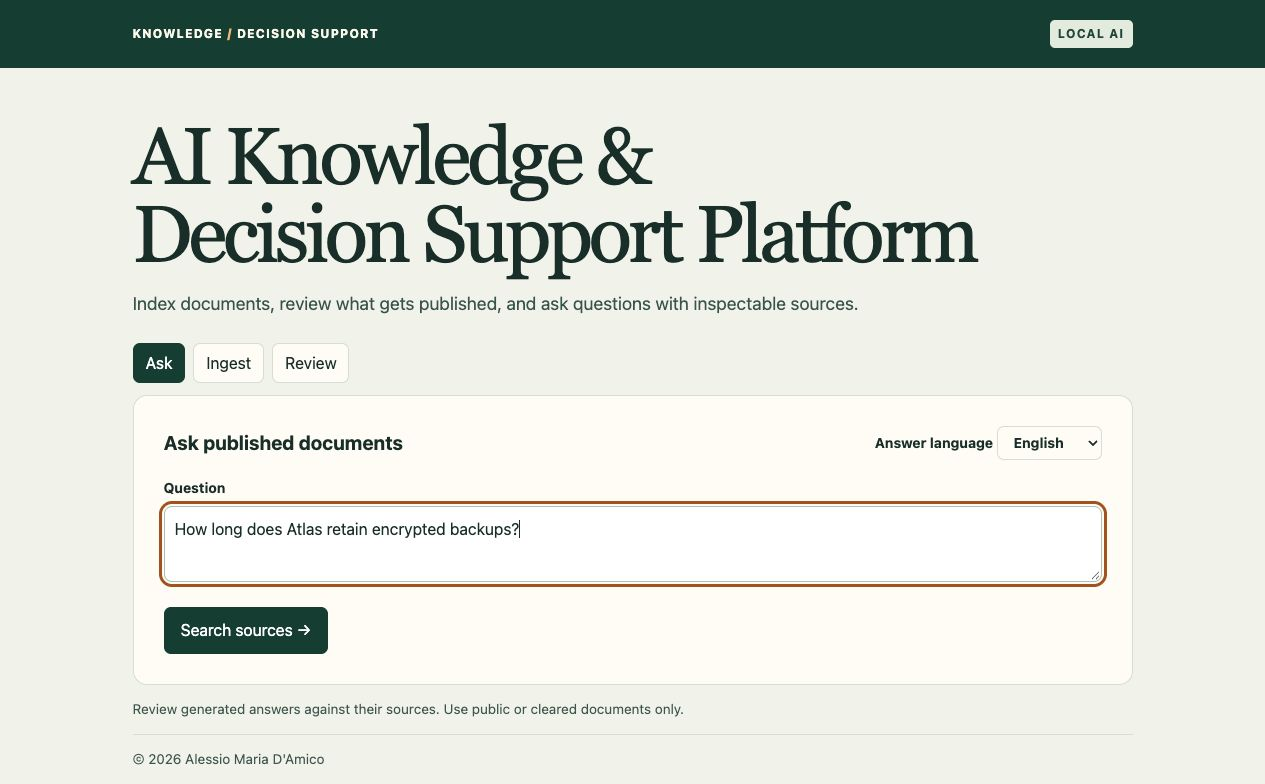
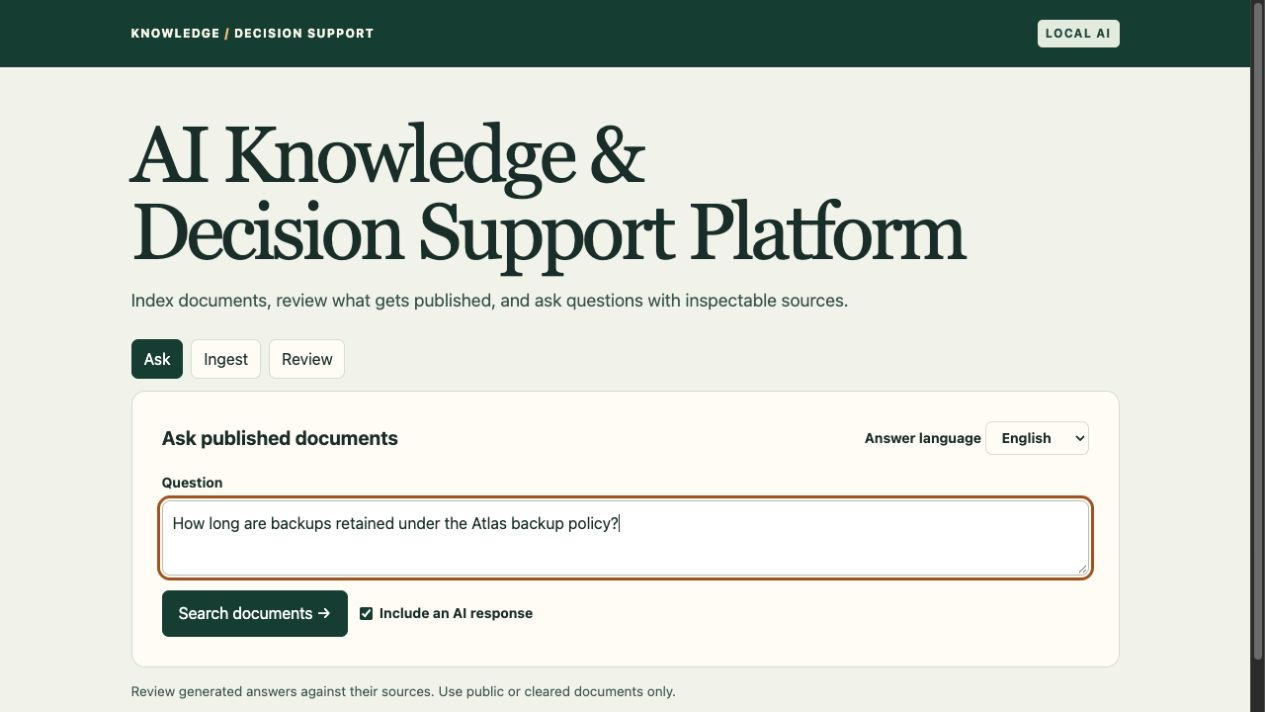
Unify document search and improve AI response presentation

Changed region(s): [[0.0925, 0.1545, 0.8941, 0.927], [0.0, 0.0, 1.0, 1.0], [0.0925, 0.9579, 0.5241, 0.9888]]

diff --git a/web/main.jsx b/web/main.jsx
@@ -20,6 +20,7 @@ function App() {
   const [question, setQuestion] = useState('');
   const [result, setResult] = useState(null);
   const [matches, setMatches] = useState(null);
+  const [includeDraft, setIncludeDraft] = useState(true);
   const [library, setLibrary] = useState([]);
   const [selected, setSelected] = useState(null);
   const [busy, setBusy] = useState(false);
@@ -46,37 +47,38 @@ function App() {
         {tab === 'ask' && <>
           <div className="panel-head"><h2>Ask published documents</h2><label>Answer language <select value={locale}
             disabled={busy} onChange={e => {setLocale(e.target.value);setResult(null);}}>{languageOptions}</select></label></div>
-          <form onSubmit={e => {e.preventDefault();setResult(null);setMatches(null);run(async () => setMatches(await request('search','POST',{question,locale})));}}>
+          <form onSubmit={e => {e.preventDefault();setResult(null);setMatches(null);run(async () => {
+              const found = await request('search','POST',{question,locale});
+              setMatches(found);
+              if (includeDraft && found.sources.length) setResult(await request('ask','POST',{question,locale}));
+            });}}>
             <label htmlFor="question">Question</label>
             <textarea id="question" required minLength={4} maxLength={500} value={question} onChange={e => {setQuestion(e.target.value);setMatches(null);setResult(null);setMessage('');}} disabled={busy}/>
-            <button className="primary" disabled={busy || question.trim().length < 4}>Search sources →</button>
+            <div className="search-actions">
+              <button className="primary" disabled={busy || question.trim().length < 4}>Search documents →</button>
+              <label className="draft-option"><input type="checkbox" checked={includeDraft} disabled={busy}
+                onChange={e => setIncludeDraft(e.target.checked)}/>Include an AI response</label>
+            </div>
           </form>
+          {busy && includeDraft && matches?.sources.length > 0 && <div className="answer" role="status"><h2>Preparing AI response…</h2><p>You can read the retrieved passages below while it runs.</p></div>}
+          {result && <div className="answer" role="status">
+            <span className="tag">{result.mode === 'unverified' ? 'AI response · source references unverified' : result.mode === 'llm' ? 'AI response · review before use' : result.mode === 'evidence' ? 'Source passages only' : 'AI could not generate a response'}</span>
+            <p className="response" lang={locale}>{result.answer}</p>
+            {result.warning && <p className="draft-warning" role="note">{result.warning}</p>}
+            <p><small>Retrieval: {result.metrics.retrieval_ms} ms · Total: {result.metrics.total_ms} ms
+              {result.metrics.generation_ms != null && <> · Generation: {result.metrics.generation_ms} ms · Tokens: {result.metrics.prompt_tokens} in / {result.metrics.generated_tokens} out · {result.metrics.device}</>}
+            </small></p>
+          </div>}
           {matches && <div className="answer">
             <h2>{matches.sources.length ? 'Relevant passages' : 'No relevant passages found'}</h2>
             {matches.sources.length > 0 && <>
-              <p>Check the passages below, or ask Qwen to draft an answer.</p>
-              <button type="button" disabled={busy} onClick={() => {
-                setResult(null); run(async () => setResult(await request('ask','POST',{question,locale})));
-              }}>Generate answer</button>
               <div className="sources">{matches.sources.map(s =>
                 <article className="source" key={s.id + ':' + s.ordinal}>
-                  <span className="tag">{s.locale.toUpperCase()} · v{s.version} · {s.page ? 'p. ' + s.page : 'chunk ' + s.ordinal}</span>
+                  <span className="tag">{result?.sources.find(c => c.id === s.id && c.ordinal === s.ordinal)?.citation && <>{result.sources.find(c => c.id === s.id && c.ordinal === s.ordinal).citation} · </>}{s.locale.toUpperCase()} · v{s.version} · {s.page ? 'p. ' + s.page : 'chunk ' + s.ordinal}</span>
                   <h3>{s.title}</h3>{s.filename && <small>{s.filename}</small>}<p lang={s.locale}>{s.text}</p>
                 </article>)}</div>
             </>}
             <p><small>Search: {matches.retrieval_ms} ms</small></p>
-          </div>}
-          {result && <div className="answer" role="status">
-            <span className="tag">{result.mode === 'llm' ? 'Qwen · review before use' : result.mode === 'evidence' ? 'Source passages only' : matches ? 'No usable answer' : 'Insufficient evidence'}</span>
-            <p className="response" lang={matches && result.mode === 'insufficient' ? 'en' : locale}>
-              {matches && result.mode === 'insufficient' ? 'Relevant passages found; no usable answer generated. Check the search results above.' : result.answer}
-            </p>
-            {result.sources.length > 0 && <><h2>Cited passages</h2><div className="sources">{result.sources.map(s =>
-              <article className="source" key={s.citation}><span className="tag">{s.citation} · {s.locale.toUpperCase()} · v{s.version} · {s.page ? 'p. ' + s.page : 'chunk ' + s.ordinal}</span>
-                <h3>{s.title}</h3>{s.filename && <small>{s.filename}</small>}<p lang={s.locale}>{s.text}</p></article>)}</div></>}
-            <p><small>Retrieval: {result.metrics.retrieval_ms} ms · Total: {result.metrics.total_ms} ms
-              {result.metrics.generation_ms != null && <> · Generation: {result.metrics.generation_ms} ms · Tokens: {result.metrics.prompt_tokens} in / {result.metrics.generated_tokens} out · {result.metrics.device}</>}
-            </small></p>
           </div>}
         </>}
         {tab === 'ingest' && <><h2>Ingest a document</h2><p>Use the same slug to create a new version. Each upload starts as a draft.</p>

diff --git a/web/style.css b/web/style.css
@@ -10,3 +10,5 @@ h2,h3,p{margin-top:0}h2{font-size:1.22rem;margin-bottom:0}h3{font-size:1rem;marg
 .answer{margin-top:20px;padding-top:20px;border-top:1px solid var(--line)}.response{white-space:pre-wrap;margin:10px 0 18px}.sources{display:grid;grid-template-columns:repeat(auto-fit,minmax(min(100%,270px),1fr));gap:10px;margin-top:10px}.source{border:1px solid var(--line);border-radius:8px;padding:12px;background:#f5f7ef}.source p{margin:8px 0 0}
 aside,footer{font-size:.85rem;color:#3d564d;padding:14px 0}footer{border-top:1px solid var(--line);margin-bottom:14px}:focus-visible{outline:3px solid #a35213;outline-offset:2px}
 input{font:inherit;color:inherit;max-width:100%;padding:7px;border:1px solid var(--line);border-radius:6px;margin:5px 4px 10px}label[for=text]{display:block;margin-top:14px}[role=status]:empty{display:none}
+
+.search-actions{display:flex;flex-wrap:wrap;align-items:center;gap:12px;margin-top:15px}.search-actions .primary{margin-top:0}.draft-option{display:inline-flex;align-items:center;gap:7px}.draft-option input{margin:0;accent-color:var(--green)}

diff --git a/web/index.html b/web/index.html
@@ -2,5 +2,5 @@
 <html lang="en">
 <head><meta charset="utf-8"><meta name="viewport" content="width=device-width, initial-scale=1">
 <title>AI Knowledge &amp; Decision Support Platform</title><link rel="stylesheet" href="/app.css"></head>
-<body><div id="root"></div><script defer src="/app.js"></script></body>
+<body><div id="root"></div><script defer src="/app.js?v=ai-response-1"></script></body>
 </html>

diff --git a/hub/app.py b/hub/app.py
@@ -255,8 +255,20 @@ def ask(q: Question):
     ids = set(re.findall(r"\[(S\d+)\]", answer))
     allowed = {f"S{i}" for i in range(1, len(evidence)+1)}
     bracketed = set(re.findall(r"\[([^\[\]]+)\]", answer))
-    if not ids or bracketed != ids or not ids <= allowed or answer.startswith("INSUFFICIENT"):
-        return {"mode": "insufficient", "answer": ABSTAIN[q.locale], "sources": [], "metrics": metrics}
+    if not evidence or not answer.strip() or answer.strip().upper().startswith("INSUFFICIENT"):
+        message = {"en": "The model could not draft an answer from these passages. You can inspect them below.",
+                   "es": "El modelo no pudo redactar una respuesta con estos pasajes. Puedes consultarlos abajo.",
+                   "fr": "Le modèle n’a pas pu rédiger de réponse à partir de ces passages. Consultez-les ci-dessous."}
+        return {"mode": "insufficient", "answer": message[q.locale] if evidence else ABSTAIN[q.locale],
+                "sources": [], "metrics": metrics}
+    if not ids or bracketed != ids or not ids <= allowed:
+        # Preserve a substantive draft, but never invent or validate its citations.
+        if any(char.isalnum() for char in re.sub(r"\[[^\[\]]*\]", "", answer)):
+            return {"mode": "unverified", "model": GENERATOR, "answer": answer,
+                    "warning": "Source references could not be verified. Check this draft against the retrieved passages.",
+                    "sources": [], "metrics": metrics}
+        return {"mode": "evidence", "answer": "The model returned source labels without an explanation.",
+                "sources": [], "metrics": metrics}
     if not any(char.isalnum() for char in re.sub(r"\[S\d+\]", "", answer)):
         message = {
             "en": "Qwen returned citations without an answer. Check the passages below.",

diff --git a/tests/test_hub.py b/tests/test_hub.py
@@ -55,11 +55,23 @@ class TestHub(unittest.TestCase):
         self.assertEqual(result["sources"][0]["locale"], "en")
         self.assertEqual(answer.call_args.args[1], "es")
 
-    def test_unknown_or_missing_citations_abstain(self):
+    def test_unknown_or_missing_citations_preserve_unverified_draft(self):
         self.publish(self.create())
         for text in ("Incorrect [S8]", "Incorrect [S1] [X]", "No citation"):
             with patch.object(hub.engine, "answer", return_value=(text, {})):
-                self.assertEqual(hub.ask(hub.Question(question="backup"))["mode"], "insufficient")
+                result = hub.ask(hub.Question(question="backup"))
+                self.assertEqual(result["mode"], "unverified")
+                self.assertEqual(result["answer"], text)
+                self.assertEqual(result["sources"], [])
+                self.assertIn("could not be verified", result["warning"])
+
+    def test_explicit_abstention_and_empty_output_do_not_become_drafts(self):
+        self.publish(self.create())
+        for text in ("INSUFFICIENT", "INSUFFICIENT [S1]", ""):
+            with patch.object(hub.engine, "answer", return_value=(text, {})):
+                result = hub.ask(hub.Question(question="backup"))
+                self.assertEqual(result["mode"], "insufficient")
+                self.assertEqual(result["sources"], [])
 
     def test_citation_only_output_shows_evidence_instead_of_answer(self):
         self.publish(self.create())

diff --git a/README.md b/README.md
@@ -1,10 +1,10 @@
 # AI Knowledge & Decision Support Platform
 
-**Independent R&D Project · 2026**
+**R&D Project · 2026**
 
 Developed by Alessio Maria D'Amico
 
-A local web application for ingesting text documents, reviewing versions, and asking questions against published material. The app generates answers with Qwen and returns the exact passages behind its citations. The example corpus uses synthetic IT operations documents.
+A local web application for ingesting text documents, reviewing versions, and asking questions against published material. Search returns relevant published passages; an optional local Qwen response appears above them, with source references checked against the retrieved material. The example corpus uses synthetic IT operations documents.
 
 [Architecture and request flow](docs/ARCHITECTURE.md) · [Threat model](docs/THREAT_MODEL.md) · [Evaluation cases](evaluation/cases.json)
 
@@ -12,7 +12,9 @@ A local web application for ingesting text documents, reviewing versions, and as
 
 ### Ask
 
-![Ask interface with a synthetic question and Search sources button](docs/screenshots/ask.jpg)
+Search published documents, with **Include an AI response** enabled by default. Clear it to retrieve passages without running Qwen. Responses appear above the passages; missing or invalid source references are clearly marked as unverified.
+
+![Ask interface with a synthetic question, Search documents button and optional AI response](docs/screenshots/ask.jpg)
 
 ### Ingest
 
@@ -37,7 +39,7 @@ HUB_ALLOW_DOWNLOAD=1 python -m evaluation.run
 python -m uvicorn hub.app:app --host 127.0.0.1 --port 8769 --no-access-log
 ```
 
-The evaluation warms the Hugging Face cache and uses a temporary database. Subsequent runs default to cache-only model loading. Open **http://127.0.0.1:8769**. In **Ingest**, paste text or upload a PDF with selectable text (up to 5 MiB and 50 pages). Use **Review** to inspect its chunks and publish the version. In **Ask**, use **Search sources** to inspect ranked published passages without running Qwen. Select **Generate answer** if you want a draft answer; the search results stay visible if generation fails. API docs are at `/docs`.
+The evaluation warms the Hugging Face cache and uses a temporary database. Subsequent runs default to cache-only model loading. Open **http://127.0.0.1:8769**. In **Ingest**, paste text or upload a PDF with selectable text (up to 5 MiB and 50 pages). Use **Review** to inspect its chunks and publish the version. In **Ask**, select **Search documents**. **Include an AI response** is checked by default; clear it to search without running Qwen. The AI response appears above the retrieved passages, which remain visible if generation fails. Responses with missing or invalid citation IDs are shown as unverified responses, with a warning; their references are not presented as validated citations. API docs are at `/docs`.
 
 With Docker Compose, run `HUB_ALLOW_DOWNLOAD=1 docker compose up --build` for the first session and exercise ingestion and search to fill the model cache. The application and models run in one container; named volumes store the documents and model weights. Recreate without `HUB_ALLOW_DOWNLOAD=1` to use cached models only. Do not expose this single-user demo to other users.
 
@@ -45,7 +47,7 @@ With Docker Compose, run `HUB_ALLOW_DOWNLOAD=1 docker compose up --build` for th
 
 React → FastAPI → overlapping text chunks → multilingual E5 embeddings → exact cosine search over SQLite vectors → multilingual cross-encoder reranking → Qwen generation with Transformers and PyTorch → validated citation IDs.
 
-The UI accepts pasted plain text and text-based PDFs, tracks document versions by slug, and makes draft review explicit. English, Spanish and French are selectable response languages. A single published corpus is searched across languages. The system abstains when no passage qualifies or the answer lacks valid citation IDs. A citation establishes which passage the model referenced; it does not prove the passage supports every claim.
+The UI accepts pasted plain text and text-based PDFs, tracks document versions by slug, and makes draft review explicit. English, Spanish and French are selectable response languages. A single published corpus is searched across languages. The system abstains when no passage qualifies or the model explicitly declines to answer. Substantive responses with missing or invalid citation IDs remain visible as unverified responses. A citation establishes which passage the model referenced; it does not prove the passage supports every claim.
 
 ## Tests and evaluation
 
@@ -54,6 +56,6 @@ python -m unittest discover -s tests -v
 python -m evaluation.run
 ```
 
-Unit tests use controlled model doubles. The real-model evaluation reports retrieval recall at four, simple answer and citation checks, an abstention case, an injection case, per-request timing and token counts, and peak process memory. These are small smoke checks, not a general accuracy benchmark. GitHub Actions builds the UI, runs unit tests, and checks the Compose configuration. No deployment pipeline is configured.
+Unit tests use synthetic text, temporary databases and controlled model doubles. No private documents are included in the tests or sample corpus. The real-model evaluation reports retrieval recall at four, simple answer and citation checks, an abstention case, an injection case, per-request timing and token counts, and peak process memory. These are small smoke checks, not a general accuracy benchmark. GitHub Actions builds the UI, runs unit tests, and checks the Compose configuration. No deployment pipeline is configured.
 
 PDF source cards show the filename and physical page number. The original PDF is not stored. Scanned PDFs need OCR first, and tables or multi-column text may extract out of order. The current scope is local use, small corpora, and manual publication. OCR, authenticated reviewer roles, indexed approximate nearest-neighbor search, claim-level verification and production operations are outside this version.

diff --git a/docs/ARCHITECTURE.md b/docs/ARCHITECTURE.md
@@ -1,6 +1,6 @@
 # Architecture
 
-The independent AI Knowledge & Decision Support Platform is a single-user local application. The React UI and FastAPI routes share an origin. A Python worker loads three local model checkpoints on demand; no external inference endpoint is used.
+The AI Knowledge & Decision Support Platform is a single-user local application. The React UI and FastAPI routes share an origin. A Python worker loads three local model checkpoints on demand; no external inference endpoint is used.
 
 ```mermaid
 flowchart LR
@@ -59,10 +59,12 @@ sequenceDiagram
 
 Normalized vectors are compared by dot product, with a default threshold of 0.72. Search scans published vectors across locales. The multilingual cross-encoder reorders up to eight candidates; up to four with a reranker score of at least 0 go to Qwen. Both thresholds are configurable and need calibration for larger corpora. Qwen uses its chat template, greedy decoding, PyTorch inference mode and a cap of 220 new tokens. A model exception at the API boundary may result in HTTP 503; the API does not silently switch to a different model or claim to have generated an answer.
 
-The server requires one or more valid request-scoped IDs such as `[S1]` and rejects unknown bracketed references. It joins those IDs to the exact document version and chunk used to build the prompt. The app does not check that every generated claim is entailed by the cited text. The answer locale is a model instruction rather than an enforced output validator.
+The server checks request-scoped IDs such as `[S1]`. A substantive response with missing or unknown bracketed references is returned as an unverified response with a warning and no validated citations. Empty output, explicit model abstention and citation-only output do not become AI responses. For responses whose citation IDs pass validation, it joins those IDs to the exact document version and chunk used to build the prompt. The app does not check that every generated claim is entailed by the cited text. The answer locale is a model instruction rather than an enforced output validator.
 
 ## Runtime and verification
 
 The front end is bundled by esbuild and served from `dist/` when the build exists at startup. The Dockerfile builds those assets in a Node stage, then serves them from a non-root Python container. Compose publishes the HTTP port to loopback and persists data and the model cache. The in-process model lock serializes inference operations; models remain resident after their first use. CPU is the default. SQLite and a linear vector scan are intentional choices for small local corpora.
 
 Ask responses expose retrieval and total elapsed time, plus generation time, token counts and device when generation runs. The evaluation harness additionally records peak process RSS. CI verifies the frontend build, model-independent tests, and Compose configuration. No hosted service, continuous deployment, or production scaling configuration is included.
+
+The Ask interface has one **Search documents** button and an **Include an AI response** checkbox (on by default). It first calls `/api/search`, renders the passages, and optionally calls `/api/ask`; that endpoint currently repeats retrieval. The AI response or generation status appears above the passages. Citation labels are added to matching retrieved passages only when validated.

diff --git a/docs/THREAT_MODEL.md b/docs/THREAT_MODEL.md
@@ -5,7 +5,7 @@
 | Risk | Current control | Remaining exposure |
 |---|---|---|
 | Document attempts to override instructions | Only published chunks are retrieved; evidence and question are quoted as JSON strings, angle brackets are escaped to avoid literal chat delimiters, and the prompt instructs Qwen to ignore embedded instructions. The model has no tools or write access. | Prompt instructions are not a security boundary. The model can still repeat malicious content or cite it. Review the source and output. |
-| Hallucinated or forged source | Exact version/chunk mapping; invalid or missing citation IDs cause abstention. Retrieval uses a similarity threshold. | Valid IDs do not imply factual entailment. The small model may answer incorrectly or decline relevant questions. |
+| Hallucinated or forged source | Exact version/chunk mapping; invalid or missing citation IDs produce a visibly unverified draft without validated citations. Retrieval uses a similarity threshold. | Valid IDs do not imply factual entailment. The small model may answer incorrectly or decline relevant questions. |
 | Browser injection and storage | React renders document text and output as text. SQL parameters separate untrusted values from queries. Loopback publishing and trusted host checks limit exposure. | No authentication, CSRF token, TLS, or per-user permissions. Anyone with local API access can inspect drafts or change publication state. |
 | Sensitive corpus or prompts | No cloud inference. The cache-only default prevents runtime model downloads unless enabled. No application prompt history. | SQLite stores document text and embeddings unencrypted. Logs, filesystem access, and backups are outside the app’s controls. Only use cleared material. |
 | Resource exhaustion or poisoned model artifacts | Input length, retrieval depth, and generation length are bounded; models are loaded from fixed identifiers and inference calls are serialized. | No quotas, rate limits, hard CPU deadline, or pinned checkpoint revisions. The SQLite scan and model memory use limit scale. Review model provenance and pin reviewed revisions before broader use. |
